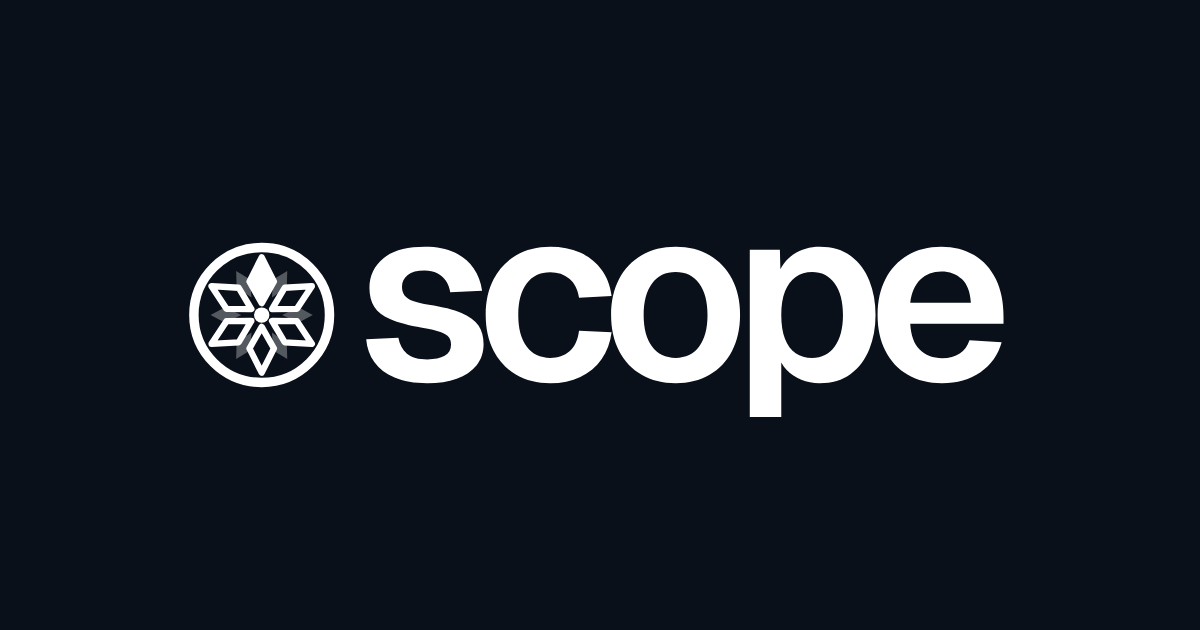
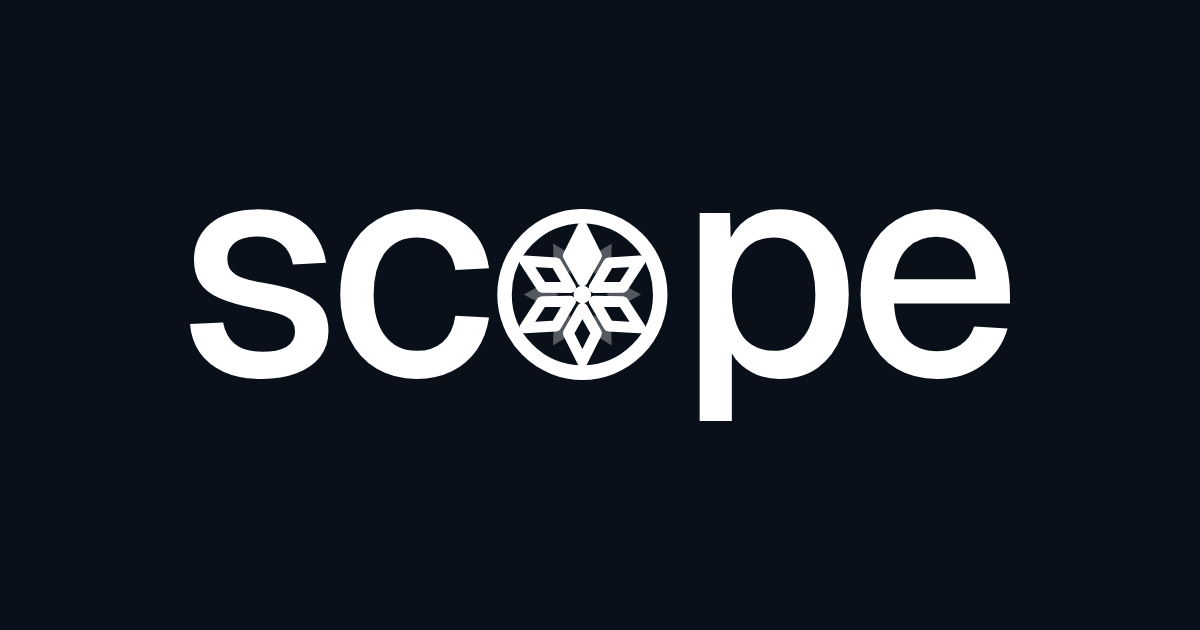
Set the Scope lockup as sc◎pe with the eyepiece as the o
The separate mark at x-height read as a thin bullet beside Semibold
letters. The wordmark is now outlined Geist Medium with a heavier
eyepiece in place of the o, on a tight 270.04 × 69.52 viewBox.

Changed region(s): [[0.1542, 0.3317, 0.8633, 0.6937]]

diff --git a/README.html b/README.html
@@ -87,20 +87,20 @@
     <symbol id="i-folder" viewBox="0 0 24 24"><path d="M3 6.5A1.5 1.5 0 0 1 4.5 5H9l2 2.5h8.5A1.5 1.5 0 0 1 21 9v9.5a1.5 1.5 0 0 1-1.5 1.5h-15A1.5 1.5 0 0 1 3 18.5Z"/></symbol>
     <symbol id="i-file" viewBox="0 0 24 24"><path d="M6 3h8l5 5v12a1 1 0 0 1-1 1H6a1 1 0 0 1-1-1V4a1 1 0 0 1 1-1Z"/><path d="M14 3v5h5"/></symbol>
     <symbol id="mark" viewBox="0 0 96 96"><circle cx="48" cy="48" r="43" fill="none" stroke="currentColor" stroke-width="6"/><path fill="currentColor" fill-opacity=".3" d="M54.48 36.78L55.34 25.4L64.2 19.94L63.9 30.34ZM60.96 48L71.24 43.06L80.4 48L71.24 52.94ZM54.48 59.22L63.9 65.66L64.2 76.06L55.34 70.6ZM41.52 59.22L40.66 70.6L31.8 76.06L32.1 65.66ZM35.04 48L24.76 52.94L15.6 48L24.76 43.06ZM41.52 36.78L32.1 30.34L31.8 19.94L40.66 25.4Z"/><path fill="none" stroke="currentColor" stroke-width="4" stroke-linejoin="round" d="M54.55 44.22L62.58 30.63L79.8 29.64L70.34 44.06ZM54.55 51.78L70.34 51.94L79.8 66.36L62.58 65.37ZM48 55.56L55.76 69.31L48 84.72L40.24 69.31ZM41.45 51.78L33.42 65.37L16.2 66.36L25.66 51.94ZM41.45 44.22L25.66 44.06L16.2 29.64L33.42 30.63Z"/><path fill="currentColor" stroke="currentColor" stroke-width="4" stroke-linejoin="round" d="M48 40.44L40.24 26.69L48 11.28L55.76 26.69Z"/><circle cx="48" cy="48" r="4.86" fill="currentColor"/></symbol>
-    <symbol id="logo" viewBox="0 0 360.626700079 96">
-      <use href="#mark" y="16" width="64" height="64"/>
-      <g fill="currentColor" transform="translate(70.200964621 18.973212625) scale(1.164728734)">
-        <path transform="translate(1.642 48.75)" d="M25.648 1.07C20.949 1.07 17 .379 13.805-1 10.609-2.379 8.152-4.281 6.434-6.703 4.715-9.125 3.738-11.895 3.5-15.012l11.672-.5c.43 2.477 1.469 4.407 3.121 5.793 1.656 1.387 4.117 2.082 7.391 2.082 2.664 0 4.761-.434 6.304-1.297 1.528-.863 2.293-2.214 2.293-4.058 0-1.082-.261-1.988-.785-2.715-.523-.727-1.535-1.359-3.035-1.898-1.5-.543-3.719-1.063-6.656-1.563-4.88-.86-8.707-1.89-11.489-3.098-2.777-1.207-4.746-2.742-5.906-4.605-1.16-1.863-1.738-4.137-1.738-6.824 0-4.465 1.699-8.086 5.101-10.864 3.403-2.777 8.414-4.168 15.032-4.168 4.293 0 7.902.707 10.824 2.117 2.922 1.41 5.199 3.32 6.836 5.727 1.636 2.41 2.668 5.136 3.097 8.183l-11.566.535c-.262-1.593-.793-2.976-1.59-4.148-.797-1.172-1.84-2.082-3.125-2.73-1.281-.649-2.816-.973-4.601-.973-2.703 0-4.742.54-6.125 1.625-1.38 1.082-2.067 2.504-2.067 4.266 0 1.285.313 2.34.934 3.168.625.828 1.652 1.5 3.082 2.015 1.426.52 3.336.97 5.727 1.348 5.011.762 8.96 1.762 11.851 3 2.89 1.238 4.95 2.785 6.176 4.64 1.227 1.856 1.84 4.118 1.84 6.782 0 3.035-.86 5.613-2.582 7.738-1.72 2.121-4.102 3.738-7.157 4.844C33.297.52 29.73 1.07 25.648 1.07Z"/>
-        <path transform="translate(45.014 48.75)" d="M26.934 1.07c-4.735 0-8.856-1.023-12.36-3.07-3.504-2.047-6.226-4.941-8.168-8.68-1.937-3.742-2.906-8.125-2.906-13.148 0-5.02.969-9.387 2.906-13.102 1.942-3.71 4.664-6.605 8.168-8.68 3.504-2.077 7.625-3.116 12.36-3.116 4.03 0 7.636.71 10.804 2.132 3.172 1.422 5.754 3.465 7.739 6.133 1.988 2.664 3.226 5.895 3.714 9.692l-11.816.605c-.465-3.035-1.629-5.34-3.5-6.918-1.867-1.574-4.18-2.363-6.941-2.363-3.676 0-6.532 1.379-8.567 4.132-2.035 2.754-3.05 6.582-3.05 11.485 0 4.926 1.015 8.765 3.05 11.523 2.035 2.754 4.89 4.13 8.567 4.13 2.785 0 5.117-.813 6.996-2.446 1.879-1.629 3.027-4.121 3.445-7.476l11.816.535c-.464 3.797-1.68 7.09-3.64 9.879-1.965 2.789-4.531 4.945-7.703 6.468-3.172 1.524-6.809 2.286-10.914 2.286Z"/>
-        <path transform="translate(90.527 48.75)" d="M26.934 1.07c-4.7 0-8.813-1.023-12.336-3.07C11.078-4.047 8.348-6.941 6.406-10.68 4.47-14.422 3.5-18.805 3.5-23.828c0-5.055.969-9.442 2.906-13.152 1.942-3.715 4.672-6.598 8.192-8.657 3.523-2.058 7.636-3.09 12.336-3.09 4.699 0 8.8 1.032 12.304 3.09 3.508 2.059 6.227 4.942 8.168 8.657 1.938 3.71 2.906 8.097 2.906 13.152 0 5.023-.968 9.406-2.906 13.148-1.941 3.739-4.66 6.633-8.168 8.68-3.504 2.047-7.605 3.07-12.304 3.07Zm0-9.246c3.675 0 6.523-1.375 8.539-4.129 2.02-2.758 3.027-6.597 3.027-11.523 0-4.902-1.008-8.738-3.027-11.504-2.016-2.766-4.864-4.148-8.54-4.148-3.675 0-6.53 1.382-8.566 4.148-2.035 2.766-3.05 6.602-3.05 11.504 0 4.926 1.015 8.765 3.05 11.523 2.035 2.754 4.89 4.13 8.567 4.13Z"/>
-        <path transform="translate(138.093 48.75)" d="M6.281 13.387v-61.043h10.926l.25 10.136-1.11-.496c1.192-3.488 3.141-6.144 5.848-7.968 2.707-1.828 5.864-2.743 9.47-2.743 4.53 0 8.296 1.125 11.288 3.375 2.992 2.247 5.234 5.25 6.727 9.012 1.496 3.762 2.242 7.93 2.242 12.512 0 4.558-.754 8.723-2.258 12.496-1.504 3.77-3.762 6.781-6.766 9.031C39.895-.054 36.125 1.07 31.59 1.07c-2.367 0-4.574-.422-6.629-1.265-2.05-.848-3.808-2.036-5.265-3.57-1.457-1.536-2.489-3.352-3.098-5.446l1.11-.89v23.488Zm22.633-21.563c3.465 0 6.195-1.383 8.191-4.156 2-2.773 3-6.605 3-11.496s-1-8.723-3-11.492c-1.996-2.774-4.726-4.16-8.191-4.16-2.309 0-4.297.582-5.969 1.75-1.672 1.164-2.965 2.914-3.875 5.246-.91 2.332-1.363 5.218-1.363 8.656 0 3.437.445 6.324 1.336 8.656.894 2.332 2.183 4.082 3.875 5.25 1.687 1.164 3.687 1.746 5.996 1.746Z"/>
-        <path transform="translate(187.265 48.75)" d="M26.824 1.07c-4.746 0-8.867-1.023-12.36-3.07-3.491-2.047-6.19-4.941-8.1-8.68-1.911-3.742-2.864-8.125-2.864-13.148 0-5.02.953-9.387 2.863-13.102 1.91-3.71 4.594-6.605 8.051-8.68 3.453-2.077 7.52-3.116 12.2-3.116 4.53 0 8.5 1.015 11.902 3.043 3.402 2.03 6.035 4.949 7.898 8.753 1.863 3.809 2.793 8.383 2.793 13.727v2.55H15.352c.222 4.204 1.363 7.352 3.414 9.446 2.054 2.094 4.789 3.14 8.203 3.14 2.547 0 4.66-.57 6.343-1.706 1.684-1.133 2.868-2.75 3.543-4.844l11.676.73c-1.273 4.606-3.836 8.25-7.683 10.934-3.852 2.684-8.524 4.023-14.024 4.023ZM15.352-28.324h22.003c-.238-3.867-1.328-6.735-3.273-8.606-1.945-1.867-4.434-2.8-7.469-2.8-3.058 0-5.586.976-7.578 2.937-1.992 1.957-3.222 4.777-3.683 8.469Z"/>
+    <symbol id="logo" viewBox="0 0 270.04 69.52">
+      <path fill="currentColor" d="M23.8 55.72Q16.3 55.72 11.15 53.42Q6 51.12 3.2 47.07Q0.4 43.02 0 37.72L10.9 37.22Q11.7 41.62 14.7 44.22Q17.7 46.82 23.8 46.82Q28.8 46.82 31.7 45.22Q34.6 43.62 34.6 40.12Q34.6 38.22 33.65 36.87Q32.7 35.52 30 34.57Q27.3 33.62 22 32.72Q14.1 31.22 9.6 29.22Q5.1 27.22 3.2 24.12Q1.3 21.02 1.3 16.62Q1.3 9.32 6.75 4.72Q12.2 0.12 22.5 0.12Q29.4 0.12 34.1 2.47Q38.8 4.82 41.45 8.77Q44.1 12.72 44.8 17.62L33.9 18.22Q33.4 15.42 31.95 13.37Q30.5 11.32 28.1 10.17Q25.7 9.02 22.4 9.02Q17.3 9.02 14.8 11.02Q12.3 13.02 12.3 16.22Q12.3 18.62 13.45 20.12Q14.6 21.62 17.2 22.57Q19.8 23.52 24.1 24.22Q32.4 25.62 37.1 27.67Q41.8 29.72 43.7 32.72Q45.6 35.72 45.6 40.02Q45.6 45.02 42.8 48.52Q40 52.02 35.1 53.87Q30.2 55.72 23.8 55.72ZM74.68 55.72Q67.08 55.72 61.38 52.32Q55.68 48.92 52.58 42.62Q49.48 36.32 49.48 27.92Q49.48 19.52 52.58 13.27Q55.68 7.02 61.38 3.57Q67.08 0.12 74.68 0.12Q81.18 0.12 86.23 2.37Q91.28 4.62 94.43 8.92Q97.58 13.22 98.48 19.42L87.38 20.02Q86.58 14.82 83.18 12.07Q79.78 9.32 74.68 9.32Q67.98 9.32 64.23 14.27Q60.48 19.22 60.48 27.92Q60.48 36.62 64.23 41.57Q67.98 46.52 74.68 46.52Q79.78 46.52 83.18 43.67Q86.58 40.82 87.38 35.02L98.48 35.62Q97.58 41.72 94.43 46.22Q91.28 50.72 86.23 53.22Q81.18 55.72 74.68 55.72ZM167.84 69.52L167.84 1.32L177.84 1.32L178.14 12.72L176.94 12.12Q178.94 6.22 183.54 3.17Q188.14 0.12 194.14 0.12Q201.94 0.12 206.99 3.97Q212.04 7.82 214.49 14.12Q216.94 20.42 216.94 27.92Q216.94 35.42 214.49 41.72Q212.04 48.02 206.99 51.87Q201.94 55.72 194.14 55.72Q190.14 55.72 186.64 54.32Q183.14 52.92 180.69 50.37Q178.24 47.82 177.24 44.32L178.44 43.12L178.44 69.52ZM192.24 46.52Q198.64 46.52 202.29 41.62Q205.94 36.72 205.94 27.92Q205.94 19.12 202.29 14.22Q198.64 9.32 192.24 9.32Q188.04 9.32 184.94 11.37Q181.84 13.42 180.14 17.62Q178.44 21.82 178.44 27.92Q178.44 34.02 180.09 38.22Q181.74 42.42 184.89 44.47Q188.04 46.52 192.24 46.52ZM246.04 55.72Q238.24 55.72 232.59 52.32Q226.94 48.92 223.89 42.62Q220.84 36.32 220.84 27.92Q220.84 19.52 223.89 13.27Q226.94 7.02 232.54 3.57Q238.14 0.12 245.74 0.12Q252.94 0.12 258.44 3.47Q263.94 6.82 266.99 13.12Q270.04 19.42 270.04 28.32L270.04 31.02L231.84 31.02Q232.24 38.82 235.99 42.72Q239.74 46.62 246.14 46.62Q250.84 46.62 253.94 44.42Q257.04 42.22 258.24 38.52L269.24 39.22Q267.14 46.62 260.99 51.17Q254.84 55.72 246.04 55.72ZM231.84 23.02L258.84 23.02Q258.34 15.92 254.79 12.52Q251.24 9.12 245.74 9.12Q240.04 9.12 236.39 12.67Q232.74 16.22 231.84 23.02Z"/>
+      <g transform="translate(100.6 -0.6) scale(0.59625)">
+        <circle cx="48" cy="48" r="43" fill="none" stroke="currentColor" stroke-width="8"/>
+        <path fill="currentColor" fill-opacity=".3" d="M54.48 36.78L55.34 25.4L64.2 19.94L63.9 30.34ZM60.96 48L71.24 43.06L80.4 48L71.24 52.94ZM54.48 59.22L63.9 65.66L64.2 76.06L55.34 70.6ZM41.52 59.22L40.66 70.6L31.8 76.06L32.1 65.66ZM35.04 48L24.76 52.94L15.6 48L24.76 43.06ZM41.52 36.78L32.1 30.34L31.8 19.94L40.66 25.4Z"/>
+        <path fill="none" stroke="currentColor" stroke-width="6" stroke-linejoin="round" d="M54.55 44.22L62.58 30.63L79.8 29.64L70.34 44.06ZM54.55 51.78L70.34 51.94L79.8 66.36L62.58 65.37ZM48 55.56L55.76 69.31L48 84.72L40.24 69.31ZM41.45 51.78L33.42 65.37L16.2 66.36L25.66 51.94ZM41.45 44.22L25.66 44.06L16.2 29.64L33.42 30.63Z"/>
+        <path fill="currentColor" stroke="currentColor" stroke-width="6" stroke-linejoin="round" d="M48 40.44L40.24 26.69L48 11.28L55.76 26.69Z"/>
+        <circle cx="48" cy="48" r="4.86" fill="currentColor"/>
       </g>
     </symbol>
   </svg>
 
   <div class="shell">
-    <header><svg class="logo" viewBox="0 0 360.626700079 96" role="img" aria-label="Scope"><use href="#logo"/></svg></header>
+    <header><svg class="logo" viewBox="0 0 270.04 69.52" role="img" aria-label="Scope"><use href="#logo"/></svg></header>
 
     <main>
       <section class="hero">
@@ -159,7 +159,7 @@
       </section>
     </main>
 
-    <footer><svg class="logo" viewBox="0 0 360.626700079 96" role="img" aria-label="Scope"><use href="#logo"/></svg><span>Apache-2.0</span></footer>
+    <footer><svg class="logo" viewBox="0 0 270.04 69.52" role="img" aria-label="Scope"><use href="#logo"/></svg><span>Apache-2.0</span></footer>
   </div>
 </body>
 </html>

diff --git a/web/src/components/scope-logo.tsx b/web/src/components/scope-logo.tsx
@@ -6,9 +6,9 @@ export function ScopeLogo({ className }: { className?: string }) {
       alt="Scope"
       className={cn('block h-auto brightness-0 dark:invert', className)}
       decoding="async"
-      height={96}
+      height={70}
       src="/brand/scope-lockup.svg"
-      width={361}
+      width={270}
     />
   )
 }
